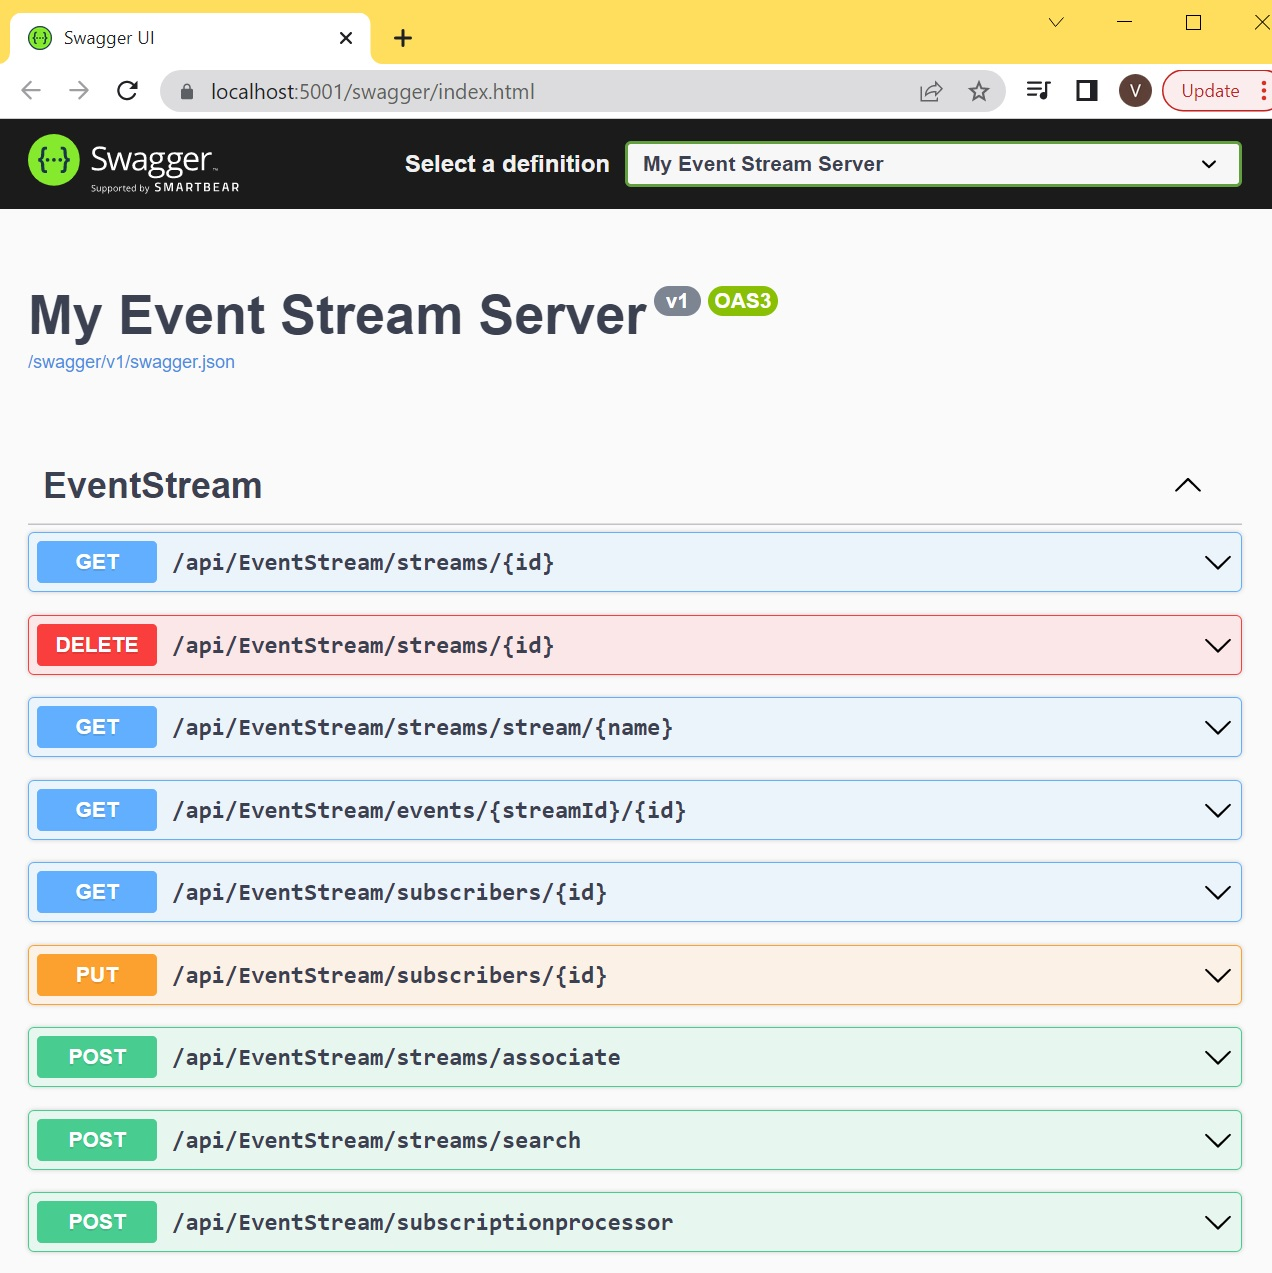
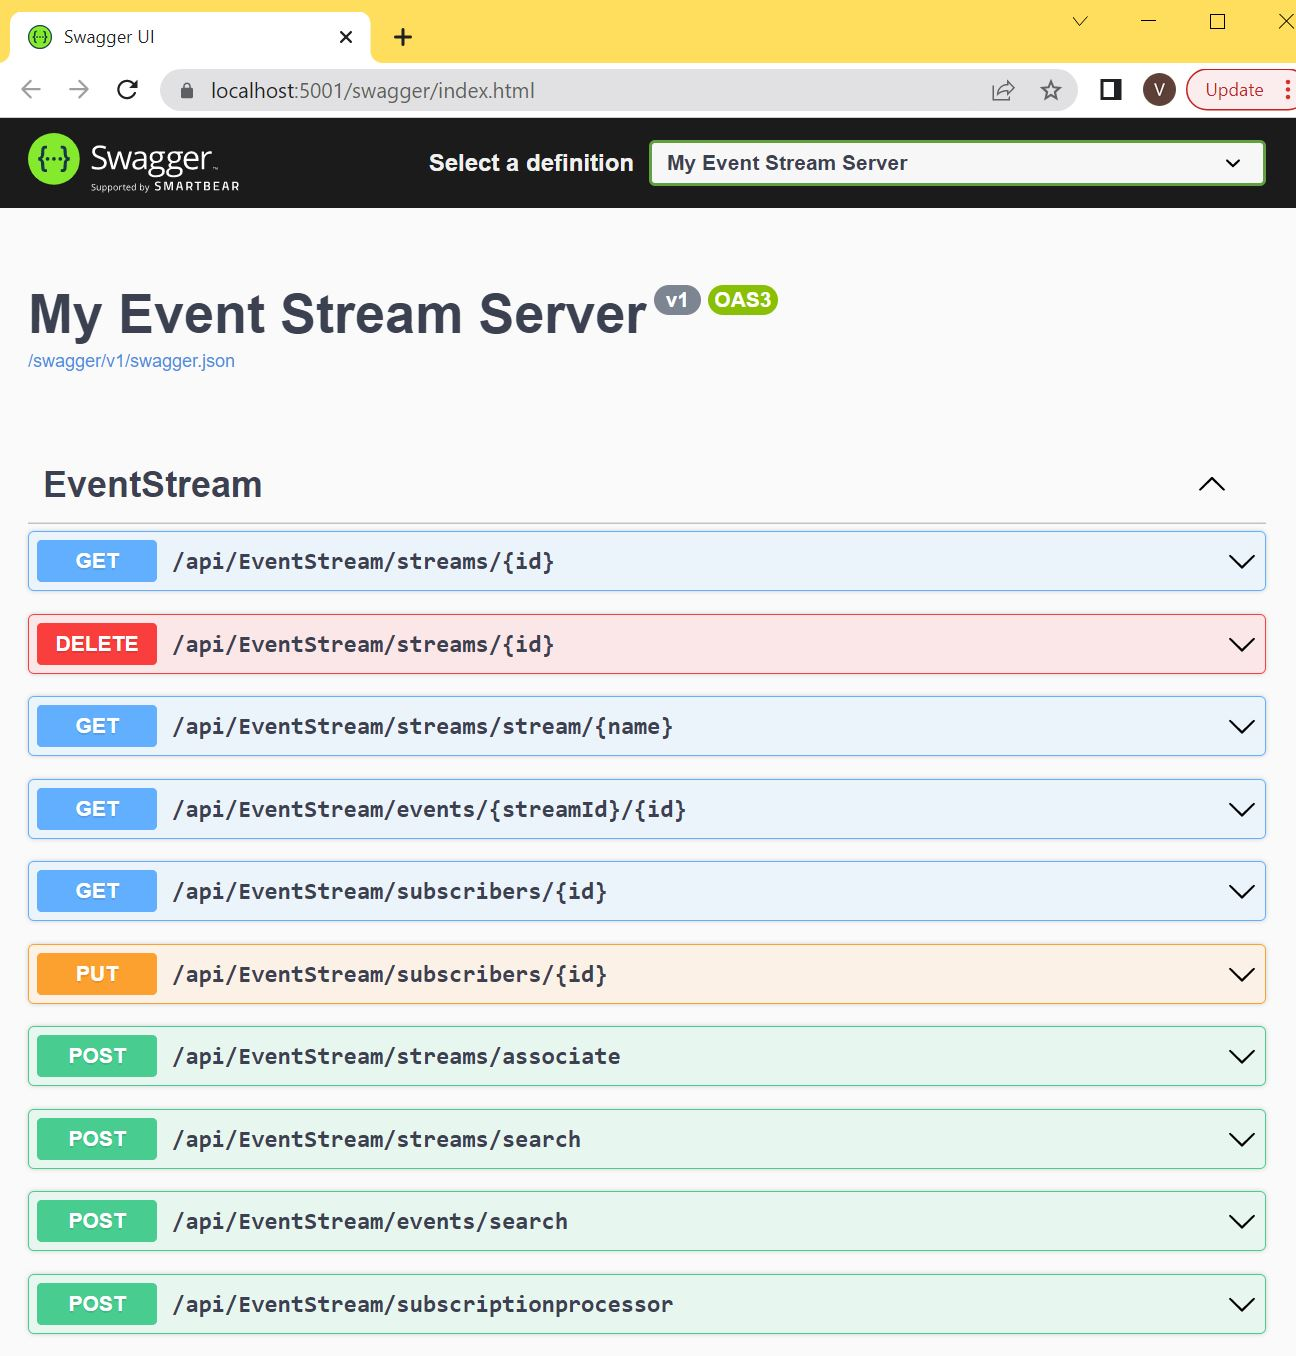
added http endpoint to search for events.

Changed region(s): [[0.0, 0.337, 0.9811, 0.9804], [0.0, 0.0, 1.0, 0.3064]]

diff --git a/AspNetCore.SignalR.EventStream/Repositories/SqliteRepository.cs b/AspNetCore.SignalR.EventStream/Repositories/SqliteRepository.cs
@@ -174,6 +174,17 @@ namespace AspNetCore.SignalR.EventStream.Repositories
                                                                        .ToExpressionPredicate()).ToListAsync();
         }
 
+        public async Task<IEnumerable<Event>> SearchEventsAsync(SearchEventsEntity search)
+        {
+            return await _context.Events.Include(e => e.Stream).Where(builder => builder.Initial(x => x.StreamId == search.StreamId)
+                                                               .And(!string.IsNullOrEmpty(search.Type), x => x.Type.ToLower().Contains(search.Type.ToLower()))
+                                                               .And(search.CreatedStart.HasValue, x => x.CreatedAt >= search.CreatedStart.Value)
+                                                               .And(search.CreatedEnd.HasValue, x => x.CreatedAt <= search.CreatedEnd.Value)
+                                                               .ToExpressionPredicate())
+                                                               .Take(search.MaxReturnRecords ?? 50)
+                                                               .ToListAsync();            
+        }
+
         public async Task DeleteEventStreamAsync(long id)
         {
             var stream = await _context.EventsStream.AsNoTracking().SingleOrDefaultAsync(s => s.Id == id);

diff --git a/AspNetCore.SignalR.EventStream/Repositories/SqlServerRepository.cs b/AspNetCore.SignalR.EventStream/Repositories/SqlServerRepository.cs
@@ -172,6 +172,17 @@ namespace AspNetCore.SignalR.EventStream.Repositories
                                                                        .ToExpressionPredicate()).ToListAsync();
         }
 
+        public async Task<IEnumerable<Event>> SearchEventsAsync(SearchEventsEntity search)
+        {
+            return await _context.Events.Include(e => e.Stream).Where(builder => builder.Initial(x => x.StreamId == search.StreamId)
+                                                               .And(!string.IsNullOrEmpty(search.Type), x => x.Type.ToLower().Contains(search.Type.ToLower()))
+                                                               .And(search.CreatedStart.HasValue, x => x.CreatedAt >= search.CreatedStart.Value)
+                                                               .And(search.CreatedEnd.HasValue, x => x.CreatedAt <= search.CreatedEnd.Value)
+                                                               .ToExpressionPredicate())
+                                                               .Take(search.MaxReturnRecords ?? 50)
+                                                               .ToListAsync();
+        }
+
         public async Task DeleteEventStreamAsync(long id)
         {
             var stream = await _context.EventsStream.AsNoTracking().SingleOrDefaultAsync(s => s.Id == id);

diff --git a/AspNetCore.SignalR.EventStream/Services/EventStreamService.cs b/AspNetCore.SignalR.EventStream/Services/EventStreamService.cs
@@ -272,5 +272,33 @@ namespace AspNetCore.SignalR.EventStream.Services
 
             return streamIdGuid;
         }
+
+        public async IAsyncEnumerable<EventModel> SearchEventsAsync(SearchEventsModel searchEventsModel)
+        {
+            var events = await _repository.SearchEventsAsync(new SearchEventsEntity
+            {
+                CreatedEnd = searchEventsModel.CreatedEnd,
+                CreatedStart = searchEventsModel.CreatedStart,
+                MaxReturnRecords = searchEventsModel.MaxReturnRecords,
+                StreamId = searchEventsModel.StreamId,
+                Type = searchEventsModel.Type,
+            });
+
+            foreach (var e in events)
+            {
+                var eventModel = new EventModel
+                {
+                    Data = e.Data,
+                    IsJson = e.IsJson,
+                    JsonData = e.JsonData,
+                    MetaData = e.MetaData,
+                    StreamId = e.Stream.StreamId,
+                    StreamName = e.Stream.Name,
+                    Type = e.Type
+                };
+
+                yield return eventModel;
+            }
+        }
     }
 }

diff --git a/AspNetCore.SignalR.EventStream/Controllers/EventStreamController.cs b/AspNetCore.SignalR.EventStream/Controllers/EventStreamController.cs
@@ -138,6 +138,26 @@ namespace AspNetCore.SignalR.EventStream.Controllers
             }            
         }
 
+        [HttpPost("events/search")]
+        public IActionResult SearchEvents([FromBody] SearchEventsModel searchEventsModel)
+        {
+            try
+            {
+                _logger?.LogInformation($"Searching events : {JsonSerializer.Serialize(searchEventsModel)}");
+
+                var events = _streamsService.SearchEventsAsync(searchEventsModel);
+
+                _logger?.LogInformation($"Finished searching events : {JsonSerializer.Serialize(searchEventsModel)}");
+
+                return Ok(events);
+            }
+            catch (Exception ex)
+            {
+                _logger?.LogError(ex, $"{nameof(EventStreamController)} error.");
+                return StatusCode(StatusCodes.Status500InternalServerError, ex);
+            }
+        }
+
         [HttpPost("subscriptionprocessor")]
         public async Task<IActionResult> SetSubscriptionProcessor([FromBody] SetSubscriptionProcessorModel model)
         {

diff --git a/AspNetCore.SignalR.EventStream/Repositories/CosmosDbRepository.cs b/AspNetCore.SignalR.EventStream/Repositories/CosmosDbRepository.cs
@@ -205,6 +205,11 @@ namespace AspNetCore.SignalR.EventStream.Repositories
             throw new NotImplementedException();
         }
 
+        public async Task<IEnumerable<Event>> SearchEventsAsync(SearchEventsEntity search)
+        {
+            throw new NotImplementedException();
+        }
+
         public async Task DeleteEventStreamAsync(long id)
         {
             var stream = await _context.EventsStream.AsNoTracking().SingleOrDefaultAsync(s => s.Id == id);

diff --git a/AspNetCore.SignalR.EventStream/Repositories/IRepository.cs b/AspNetCore.SignalR.EventStream/Repositories/IRepository.cs
@@ -36,6 +36,8 @@ namespace AspNetCore.SignalR.EventStream.Repositories
         Task<bool> DoesEventStreamAssociationExistAsync(long streamId, long associatedStreamId);
 
         Task<IEnumerable<Entities.EventStream>> SearchEventStreamsAsync(SearchEventStreamsEntity search);
+        Task<IEnumerable<Event>> SearchEventsAsync(SearchEventsEntity search);
+
         Task DeleteEventStreamAsync(long id);
     }
 }

diff --git a/AspNetCore.SignalR.EventStream/DomainEntities/SearchEventsEntity.cs b/AspNetCore.SignalR.EventStream/DomainEntities/SearchEventsEntity.cs
@@ -1,0 +1,11 @@
+namespace AspNetCore.SignalR.EventStream.DomainEntities
+{
+    public class SearchEventsEntity
+    {
+        public int StreamId { get; set; }
+        public DateTimeOffset? CreatedStart { get; set; }
+        public DateTimeOffset? CreatedEnd { get; set; }
+        public string? Type { get; set; }
+        public int? MaxReturnRecords { get; set; }
+    }
+}

diff --git a/AspNetCore.SignalR.EventStream/Models/SearchEventsModel.cs b/AspNetCore.SignalR.EventStream/Models/SearchEventsModel.cs
@@ -1,0 +1,11 @@
+namespace AspNetCore.SignalR.EventStream.Models
+{
+    public class SearchEventsModel
+    {
+        public int StreamId { get; set; }
+        public DateTimeOffset? CreatedStart { get; set; }
+        public DateTimeOffset? CreatedEnd { get; set; }
+        public string? Type { get; set; }
+        public int? MaxReturnRecords { get; set; }
+    }
+}

diff --git a/AspNetCore.SignalR.EventStream/Services/IEventStreamService.cs b/AspNetCore.SignalR.EventStream/Services/IEventStreamService.cs
@@ -13,5 +13,6 @@ namespace AspNetCore.SignalR.EventStream.Services
         Task<EventModel> GetEventAsync(long streamId, Guid id);
         Task<EventStreamModel> GetStreamAsync(Guid id);
         Task<IEnumerable<EventStreamModel>> GetStreamsAsync(string name);
+        IAsyncEnumerable<EventModel> SearchEventsAsync(SearchEventsModel searchEventsModel);
     }
 }
